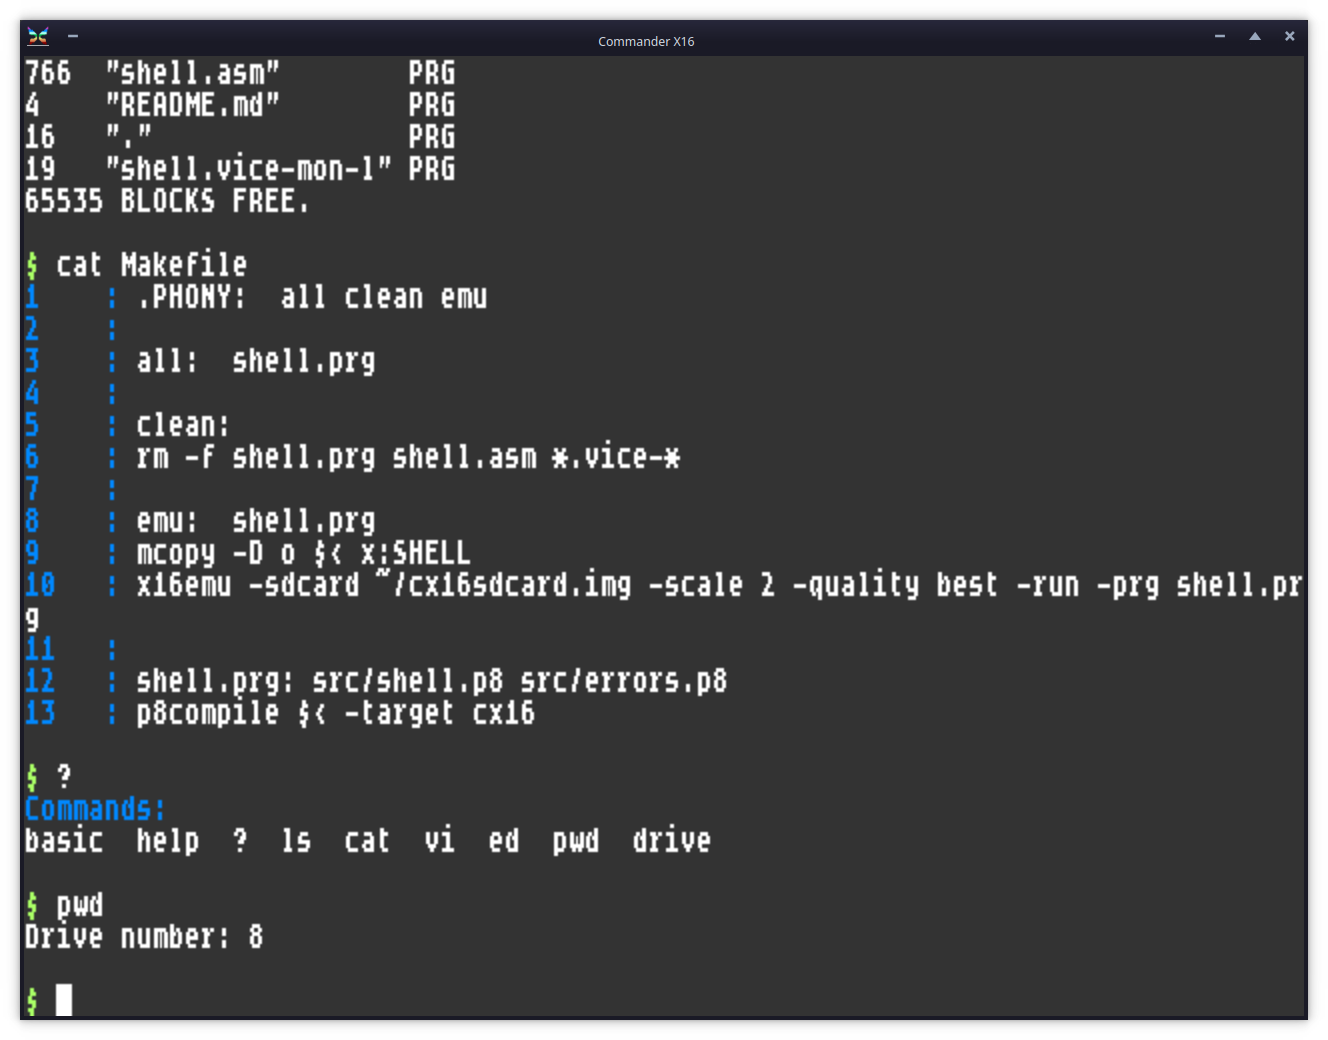
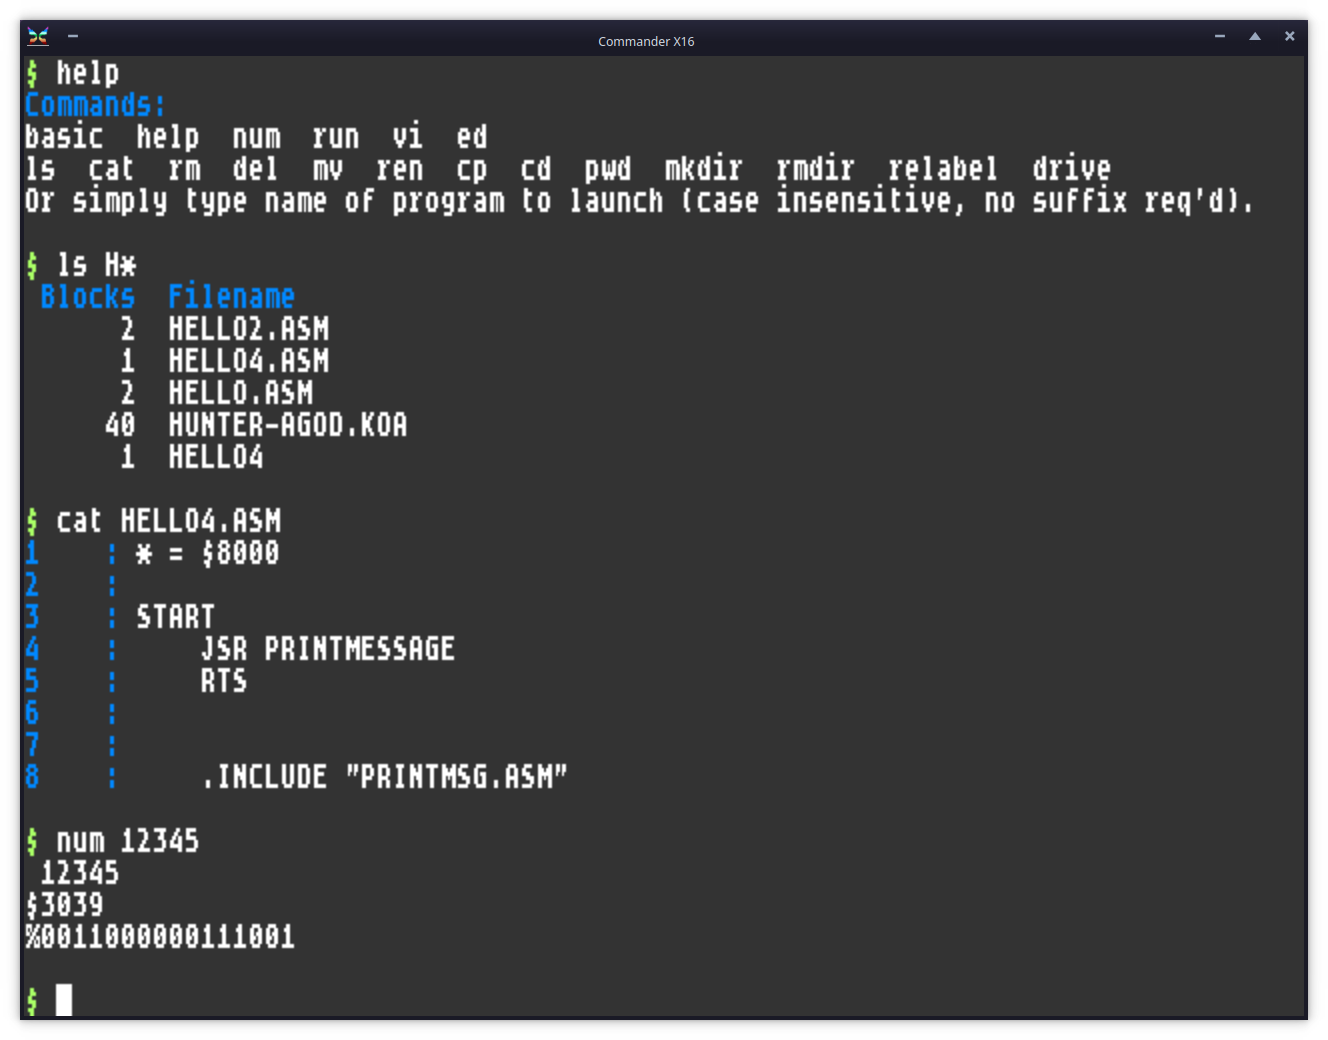
readme

diff --git a/README.md b/README.md
@@ -22,21 +22,33 @@ Save SHELL.PRG as AUTOBOOT.X16 to the sd-card to automatically load and run the 
 
 Type "help" at the prompt to get a list of the built-in commands.
 
-| command               | explanation                                                                                   |
-|-----------------------|-----------------------------------------------------------------------------------------------|
-| help                  | show short list of commands                                                                   |
-| basic                 | return back to Basic prompt                                                                   |
-| num                   | print number in various bases, accepts $hex, %binary and normal decimal                       |
-| run  ,<br> *filename* | loads and executes the given file. You can omit any .PRG suffix and is case insensitive.      |
-| vi , ed               | uses X16Edit (in Rom or on disk) to edit the given text file                                  |       
-| ls                    | shows files on disk. You can provide an optional pattern to match such as *.ASM or H???.TXT   |
-| cat                   | prints the contents of the given text file on the screen                                      |       
-| rm , del              | remove given file from the disk                                                               |       
-| mv , ren              | rename given file to given new filename                                                       |       
-| pwd                   | show current drive information                                                                |       
-| drive                 | change current drive                                                                          |       
+| command                | explanation                                                                                 |
+|------------------------|---------------------------------------------------------------------------------------------|
+| help                   | show short list of commands                                                                 |
+| basic                  | return back to Basic prompt                                                                 |
+| num                    | print number in various bases, accepts $hex, %binary and normal decimal                     |
+| run  ,<br/> *filename* | loads and executes the given file. You can omit any .PRG suffix and is case insensitive.    |
+| vi , ed                | uses X16Edit (in Rom or on disk) to edit the given text file  (see note below)              |       
+| ls                     | shows files on disk. You can provide an optional pattern to match such as *.ASM or H???.TXT |
+| cat                    | prints the contents of the given text file on the screen                                    |       
+| rm , del               | remove given file from the disk                                                             |       
+| mv , ren               | rename given file to given new filename                                                     |
+| cp                     | copy given file to new file                                                                 |
+| pwd                    | show current drive information                                                              |       
+| cd                     | change current working directory                                                            |
+| mkdir                  | create a new directory                                                                      |       
+| rmdir                  | remove existing directory                                                                   |       
+| relabel                | change disk name                                                                            |       
+| drive                  | change current drive                                                                        |       
+
+### X16Edit text editor support (vi/ed command)
+
+Either have X16Edit ROM edition present in ROM, or have the Hi-Ram version on disk as 'X16EDIT-6000' on the sdcard.
+See [their github](https://github.com/stefan-b-jakobsson/x16-edit) for details on how to do this.
 
 
 ## Todo
+
+- remember current working directory? (CbmDos doesn't do this for us...)
 
 ...
